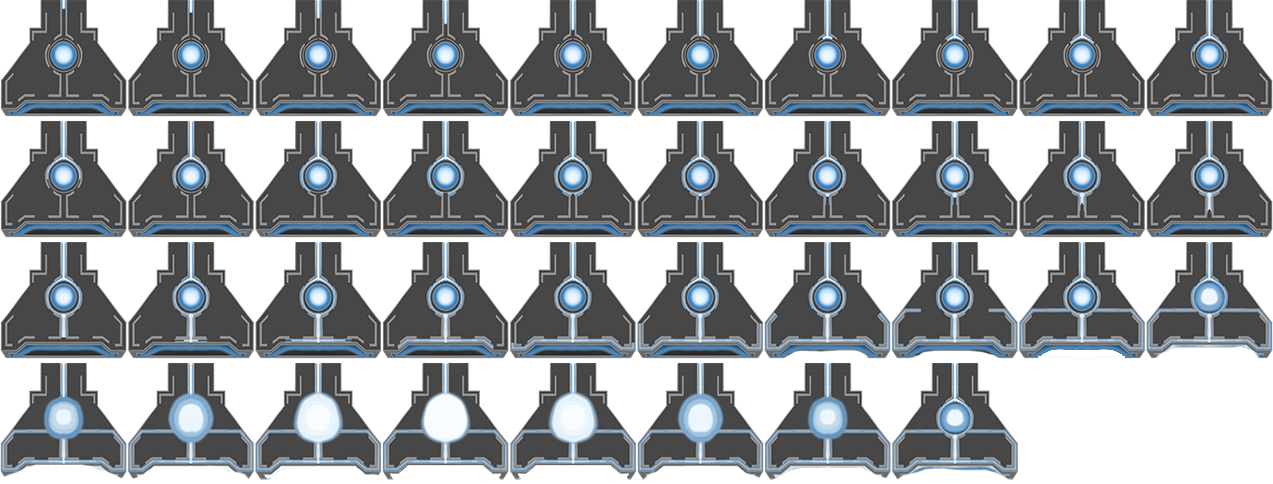
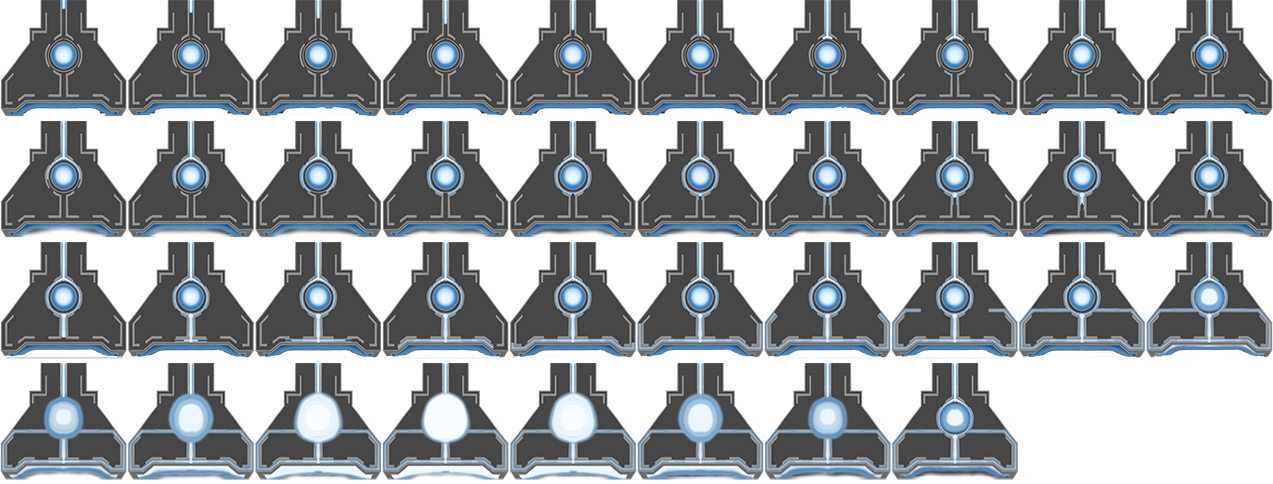
fixed some animations

diff --git a/GXPEngine/Classes/Quokka.cs b/GXPEngine/Classes/Quokka.cs
@@ -9,7 +9,7 @@ using GXPEngine;
 class Quokka : PhysicsCircle
 {
     Timer deadTimer;
-    Sprite body;
+    AnimationSprite body;
 
     public Quokka(int pRadius) : base(pRadius, new GXPEngine.Core.Vector2(0, 0))
     {
@@ -17,7 +17,7 @@ class Quokka : PhysicsCircle
         effectedByGravity = true;
         bouncyness = 0.65f;
         
-        body = new Sprite(Settings.ASSET_PATH + "Art/Quokka.png", false);
+        body = new AnimationSprite(Settings.ASSET_PATH + "Art/Quokka.png", 5, 1, 5, false, false);
         body.SetOrigin(radius, radius);
         AddChild(body);
     }
@@ -42,6 +42,8 @@ class Quokka : PhysicsCircle
         {
             velocity.Reflect(Vector2.DirectionBetween(position, other.position).Normalized(), reflectStrength);
         }
+
+        body.SetFrame(Utils.Random(1, 3));
     }
 
     protected override void applyVelocity()
@@ -58,19 +60,25 @@ class Quokka : PhysicsCircle
 
     public override void Update()
     {
-        body.rotation = velocity.angleDeg + 90;
+        if (velocity.length > 100f)
+        {
+            body.rotation = velocity.angleDeg + 90;
+        }
 
         if (deadTimer != null)
         {
             if (deadTimer.done)
                 LateRemove();
         }
-
-        base.Update();
+        if (game.Currentscene is Level)
+        {
+            base.Update();
+        }
+        
 
         if (Input.GetKeyDown(Key.S))
         {
-            Die();
+            LateRemove();
         }
     }
 
@@ -78,13 +86,11 @@ class Quokka : PhysicsCircle
     {
         if (deadTimer == null)
         {
-            deadTimer = new Timer(0.05f);
+            deadTimer = new Timer(0.01f);
             AddChild(deadTimer);
-            LateRemove();
+            //LateRemove();
             parent.recieveMessage("dead");
         }
-
-        SetColor(System.Drawing.Color.Red);
     }
 }
 

diff --git a/GXPEngine/Classes/Cannon.cs b/GXPEngine/Classes/Cannon.cs
@@ -9,6 +9,7 @@ using GXPEngine.Physics;
 public class Cannon : Sprite
 {
     AnimationSprite body;
+    Quokka quokka;
 
     public Cannon(int pX, int pY) : base(Settings.ASSET_PATH + "Art/Cannonbacksprite.png", true, false)
     {
@@ -20,36 +21,41 @@ public class Cannon : Sprite
         body = new AnimationSprite(Settings.ASSET_PATH + "Art/LaucherSheet2.png", 10, 4, 38, false, false);
         body.SetOrigin(body.width/2, body.height/2);
         body.SetCycle(0, 37, 1);
+        body.SetXY(x, y);
 
         PhysicsRectangle rect = new PhysicsRectangle(body.width, body.height, new Vector2(x, y));
         //rect.SetColor(System.Drawing.Color.Red);
         game.Currentscene.AddChild(rect);
-        AddChildAt(body, 1000);
+
+        game.Currentscene.AddChildAt(body, 100);
     }
 
     void Update()
     {
 
-        if (body.currentFrame > 35)
+        if (body.currentFrame > 0 && body.currentFrame <= 35)
         {
-            Quokka ball = new Quokka(15);
-            ball.position = new Vector2(x, y);
-            ball.velocity = new Vector2(0, 1500f);
-            game.Currentscene.AddChildAt(ball, 100);
-
+            body.Animate();
+            quokka.position.SetXY(x, y + 50);
+        }
+        else if (body.currentFrame > 35)
+        {
             ((Level)game.Currentscene).mainCam.Shake();
 
             body.SetFrame(0);
         }
-        else if (body.currentFrame > 0)
-        {
-            body.Animate();
-        }
 
         if (Input.GetKeyUp(Key.S))
         {
+            quokka = new Quokka(15);
+            
+            quokka.velocity = new Vector2(0, 1500f);
+            game.Currentscene.AddChildAt(quokka, 10);
+
             body.SetFrame(1);
         }
+
+        
     }
 }
 

diff --git a/GXPEngine/Classes/Star.cs b/GXPEngine/Classes/Star.cs
@@ -8,15 +8,12 @@ using GXPEngine.Physics;
 public class Star : PhysicsCircle
 {
     AnimationSprite body;
-    Timer respawnTimer;
+    //Timer respawnTimer;
     bool active;
 
     public Star(int pX, int pY) : base(35, new GXPEngine.Core.Vector2(pX, pY))
     {
         trigger = true;
-
-        respawnTimer = new Timer(0.06f);
-        AddChild(respawnTimer);
 
         StartAgain();
 
@@ -25,32 +22,27 @@ public class Star : PhysicsCircle
 
     public void StartAgain()
     {
-        respawnTimer.Start();
         active = true;
     }
 
     public override void Update()
     {
-        if (respawnTimer.done)
+
+        base.Update();
+
+        if (body.parent == null && active)
         {
-            base.Update();
+            body = new AnimationSprite(Settings.ASSET_PATH + "Art/StarSheet.png", 7, 3, 21);
+            body.SetOrigin(body.width / 2, body.height / 2);
+            body.SetCycle(0, 12, 5);
+            AddChild(body);
+        }
 
-            if (body.parent == null)
-            {
-                body = new AnimationSprite(Settings.ASSET_PATH + "Art/StarSheet.png", 7, 3, 21);
-                body.SetOrigin(body.width / 2, body.height / 2);
-                body.SetCycle(0, 12, 5);
-                AddChild(body);
-            }
+        body.Animate();
 
-            body.Animate();
-
-            if (body.currentFrame > 19)
-            {
-                body.LateDestroy();
-                respawnTimer.Stop();
-                respawnTimer.done = false;
-            }
+        if (body.currentFrame > 19)
+        {
+            body.LateDestroy();
         }
     }
 

diff --git a/GXPEngine/SetupGame/LevelSetup.cs b/GXPEngine/SetupGame/LevelSetup.cs
@@ -129,7 +129,11 @@ public class Level : Scene
     public override void Update()
     {
         starBar.SetFrame(stars);
-        Console.WriteLine(stars);
+
+        if (Input.GetKeyDown(Key.S))
+        {
+            ReloadStars();
+        }
     }
 
     private void ReloadStars()
@@ -152,21 +156,19 @@ public class Level : Scene
         AddChild(new PhysicsLine(0, 0, 0, height));
         AddChild(new PhysicsLine(width, height, width, 0));
         AddChild(new PhysicsLine(width, 120, 0, 120));
-        AddChild(new Cannon(80, 186));
+        AddChildAt(new Cannon(80, 186), 1);
 
         panel = new Sprite(Settings.ASSET_PATH + "Art/Panel.png", false, false);
         panel.height = 130;
 
-        panel.AddChild(new PlankButton(350, 85, plankStock));
-        panel.AddChild(new SpringButton(550, 85, springStock));
-        panel.AddChild(new PillowButton(750, 85, pillowStock));
+        panel.AddChild(new PlankButton(450, 85, plankStock));
+        panel.AddChild(new SpringButton(650, 85, springStock));
+        panel.AddChild(new PillowButton(850, 85, pillowStock));
 
         starBar = new AnimationSprite(Settings.ASSET_PATH + "Art/StarBar.png", 4, 1, 4, false, false);
         starBar.SetXY(1150, 50);
         panel.AddChild(starBar);
 
-        //panel.SetOrigin(0, panel.height);
-        //panel.rotation = 90;
         AddChildAt(panel, 1000);
 
         mainCam = new Camera(0, 0, width, height);

diff --git a/GXPEngine/GXPEngine/Managers/PhysicsCollisionManager.cs b/GXPEngine/GXPEngine/Managers/PhysicsCollisionManager.cs
@@ -82,7 +82,7 @@ namespace GXPEngine.Managers
 				i++;
 				checkAllCollisions();
 
-				if (i > 200)
+				if (i > 50)
 				{
 					break;
 				}
